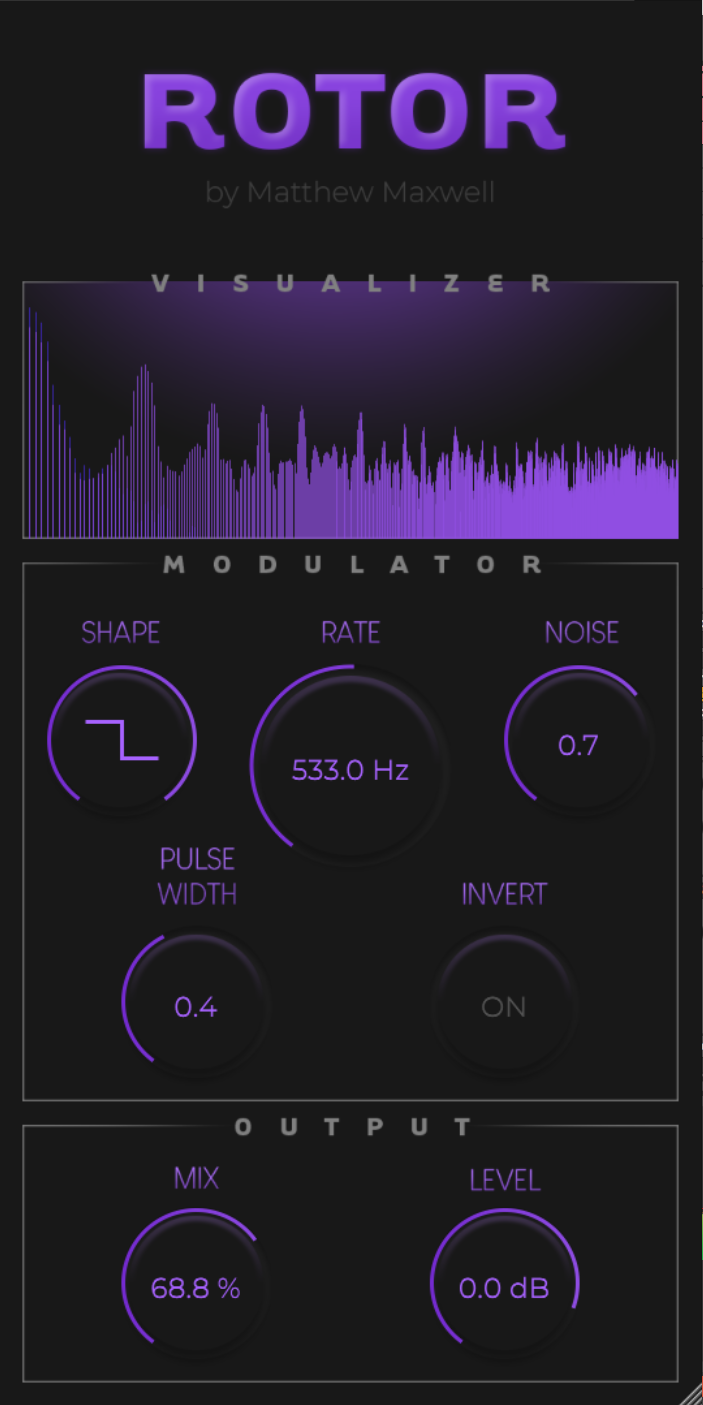
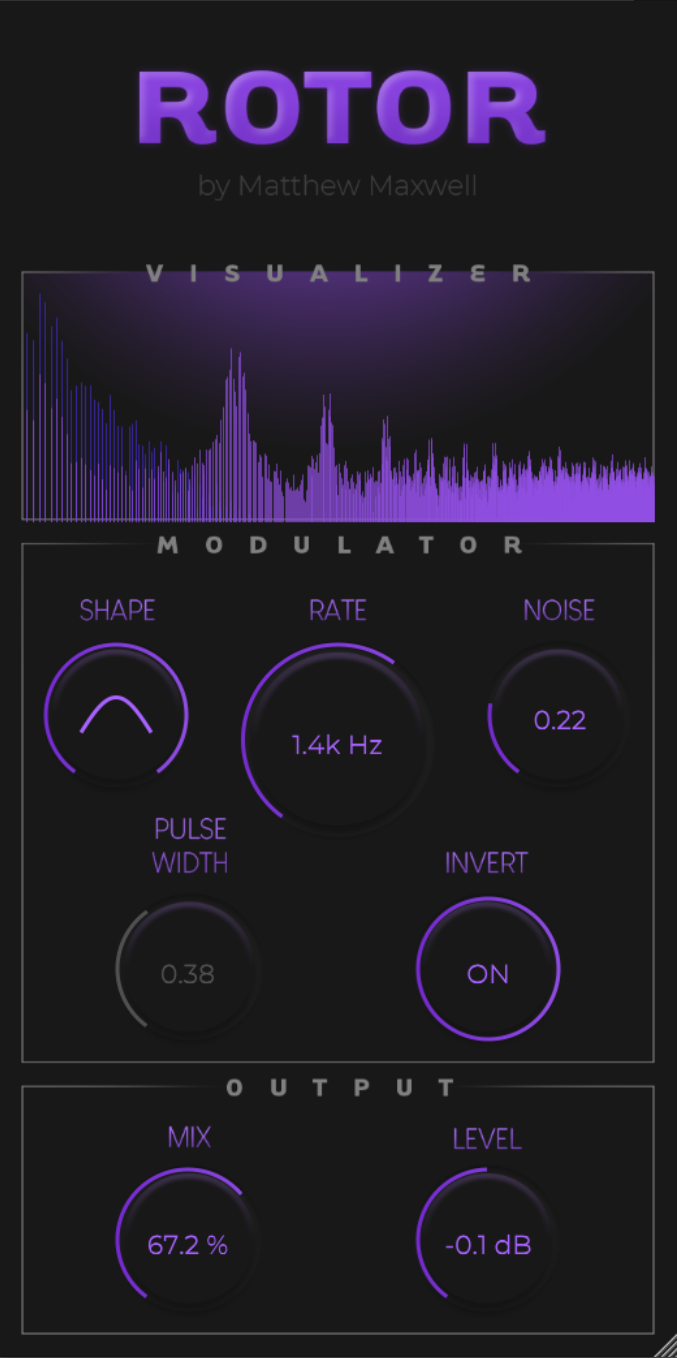
Change sinetable's mapping - was mapping from 0.5f to 1.5f rather than 0.0f to 1.0f

diff --git a/Source/RotorProcessor.cpp b/Source/RotorProcessor.cpp
@@ -22,17 +22,20 @@ RotorAudioProcessor::RotorAudioProcessor()
     )
 #endif
 {
-    // init parameters from valueTreeState
-    previousShape               = new float(0.0f);
+    // initialize value tree state parameters
     modulationShape             = parameters.getRawParameterValue("waveform");
     modulationRate              = parameters.getRawParameterValue("rate");
     modulationNoise             = parameters.getRawParameterValue("noise");
     modulationIsInverted        = parameters.getRawParameterValue("inversion");
-    modulationInversionFactor   = new float(1.0f);
     pulseWidth                  = parameters.getRawParameterValue("pulseWidth");
-    previousPulseWidth          = new float(0.5f);
     level                       = parameters.getRawParameterValue("level"); 
     mix                         = parameters.getRawParameterValue("mix");
+
+    // previous parameter values' initializations
+    previousShape               = *modulationShape;
+    modulationInversionFactor   = getModulationInversion((bool) *modulationIsInverted);
+    previousPulseWidth          = *pulseWidth;
+    previousLevel               = *level;
 }
 
 RotorAudioProcessor::~RotorAudioProcessor()
@@ -158,22 +161,12 @@ void RotorAudioProcessor::changeProgramName(int index, const String& newName)
 //==============================================================================
 void RotorAudioProcessor::prepareToPlay(double sampleRate, int samplesPerBlock)
 {
-    // set the inversion factor
-    *modulationInversionFactor = getModulationInversion((bool) *modulationIsInverted);
-
-    // initialize previous gain value
-    previousLevel = powf(2, *level / 6);
-
     // set frequency variables
     wavetableSize = 1024;
     setPhaseDelta((double) *modulationRate, sampleRate);
 
     // write the wavetable according to current waveform   
-    *previousShape = *modulationShape;
     setWavetable((int) *modulationShape);
-
-    // set pulse width stuff
-    *previousPulseWidth = *pulseWidth;
 }
 
 void RotorAudioProcessor::releaseResources()
@@ -209,23 +202,23 @@ bool RotorAudioProcessor::isBusesLayoutSupported(const BusesLayout& layouts) con
 void RotorAudioProcessor::processBlock(AudioBuffer<float>& buffer, MidiBuffer& midiMessages)
 {
     // write new wavetable if pulse width changes
-    if (*previousPulseWidth != *pulseWidth)
+    if (previousPulseWidth != *pulseWidth)
     {
-        *previousPulseWidth = *pulseWidth;
+        previousPulseWidth = *pulseWidth;
         setWavetable((int) *modulationShape);
     }
 
     // write new wavetable if waveform selection change
-    if (*previousShape != *modulationShape)
+    if (previousShape != *modulationShape)
     {
-        *previousShape = *modulationShape;
+        previousShape = *modulationShape;
         setWavetable((int) *modulationShape);
     }
     // update phase delta for wavetable
     setPhaseDelta((double) *modulationRate, this->getSampleRate());
 
     // update inversion factor
-    *modulationInversionFactor = getModulationInversion((bool) *modulationIsInverted);
+    modulationInversionFactor = getModulationInversion((bool) *modulationIsInverted);
 
     // grab reference to the editor (for the analyzer)
     RotorAudioProcessorEditor* editor = static_cast<RotorAudioProcessorEditor*>(getActiveEditor());
@@ -246,7 +239,7 @@ void RotorAudioProcessor::processBlock(AudioBuffer<float>& buffer, MidiBuffer& m
         auto o_sampleData = samples[sample], p_sampleData = samples[sample];
 
         // multiply wavetable value by original signal and update phase value
-        p_sampleData *= (wavetable[(int) currentPhase] * *modulationInversionFactor);
+        p_sampleData *= (wavetable[(int) currentPhase] * modulationInversionFactor);
         currentPhase = fmod(currentPhase + phaseDelta, wavetableSize);
 
         // read current mix ratio value and scale between 0.0f and 1.0f (** DOES NOT CHECK IF MIX IS > 100.0f **)
@@ -368,7 +361,7 @@ void RotorAudioProcessor::setWavetable(int waveformIndex)
         case 0:
             for (int i = 0; i < wavetableSize; i++)
             {
-                auto waveformValue = 1.0f + 0.5f * sinf(MathConstants<float>::twoPi * (float) i / wavetableSize);
+                auto waveformValue = 0.5f + 0.5f * sinf(MathConstants<float>::twoPi * (float) i / wavetableSize);
                 wavetable.insert(i, waveformValue);
             }
             break;

diff --git a/Source/RotorProcessor.h b/Source/RotorProcessor.h
@@ -59,25 +59,28 @@ public:
     void setWavetable(int waveformIndex);
 
 private:
-    // for storing / retrieving parameters
+    //==========================================================================
     AudioProcessorValueTreeState parameters;
     AudioProcessorValueTreeState::ParameterLayout createParameterLayout();
 
-    // declare parameters and extra parameter variables
-    float*              previousShape;
-    std::atomic<float>* modulationShape;             // PARAM
-    std::atomic<float>* modulationRate;              // PARAM
-    std::atomic<float>* modulationNoise;             // PARAM
-    float*              modulationInversionFactor;
-    std::atomic<float>* modulationIsInverted;        // PARAM
-    float*              previousPulseWidth;
-    std::atomic<float>* pulseWidth;                  // PARAM
+    //==========================================================================
 
-    std::atomic<float>* level;                       // PARAM
-    std::atomic<float>* mix;                         // PARAM
+    // declare value tree state parameters - atomic<float>* is THREAD SAFE
+    std::atomic<float>* modulationShape;             
+    std::atomic<float>* modulationRate;              
+    std::atomic<float>* modulationNoise;             
+    std::atomic<float>* modulationIsInverted;        
+    std::atomic<float>* pulseWidth;                  
+    std::atomic<float>* level;                       
+    std::atomic<float>* mix;  
 
-    // variable for gain ramp --- 0.0f to 1.0f (same for current gain in .cpp ^)
+    // previous values for specific parameters
+    float previousShape;
+    float modulationInversionFactor;
+    float previousPulseWidth;
     float previousLevel;
+
+    //==========================================================================
 
     // wavetable variables
     Array<float> wavetable;
